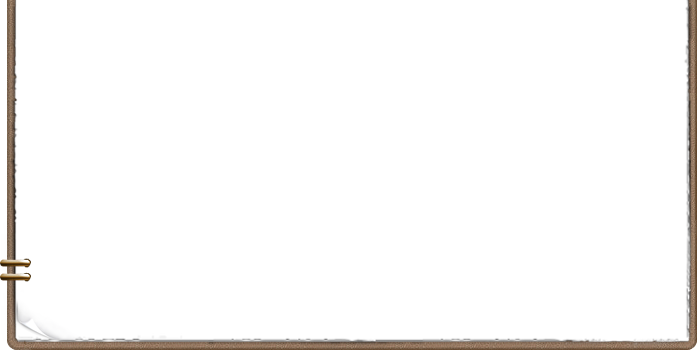
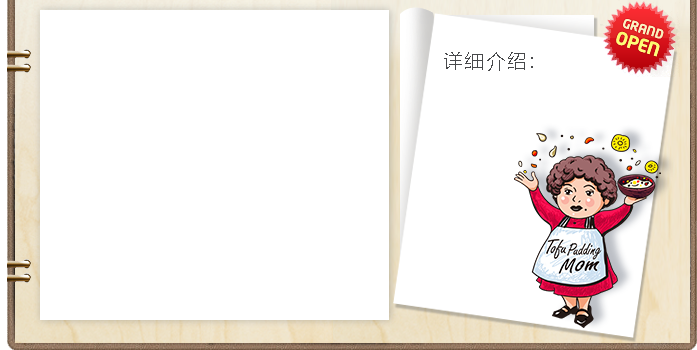
eidt shop page alert box style

Changed region(s): [[0.0, 0.0, 1.0, 1.0]]

diff --git a/statics/css/dhmm/style.css b/statics/css/dhmm/style.css
@@ -234,17 +234,17 @@ body.pop .school_apply div.bx_agreement .inner {height:138px;}
 .pop_layer_menu .cont {position:relative;z-index:1;width:617px;min-height:300px;padding:0px 7px;background:url("../images/bg_menu_top.png") no-repeat left top;_behavior: url(/library/js/iepngfix.htc);}
 .pop_layer_menu .cont .left {position:relative;z-index:1;width:205px;}
 .pop_layer_menu .cont .left .icon {position:absolute;z-index:2;left:16px;top:10px;}
-.pop_layer_menu .cont .left .goods {position:absolute;z-index:1;left:3px;top:0;width:205px;}
+.pop_layer_menu .cont .left .goods {position:absolute;z-index:1;left:3px;top:0;width:205px; padding-top:20px;}
 .pop_layer_menu .cont .left .new, .pop_layer_menu .cont .left .best {float:left;position:relative;z-index:2;width:47px;height:49px;text-indent:-100%;*text-indent:0;white-space:nowrap;overflow:hidden;font-size:0;line-height:0;text-shadow:none;color:transparent;}
 .pop_layer_menu .cont .left .new {background:url("../images/label_new_detail.png") left top no-repeat; _background:none; _filter:progid:DXImageTransform.Microsoft.AlphaImageLoader(src='../images/label_new_detail.png', sizingMethod='crop');}
 .pop_layer_menu .cont .left .best {background:url("../images/label_best_detail.png") left top no-repeat; _background:none; _filter:progid:DXImageTransform.Microsoft.AlphaImageLoader(src='../images/label_best_detail.png', sizingMethod='crop');}
-.pop_layer_menu .cont .right {position:relative;z-index:1;right:0;top:0;width:210px;padding-left:430px; padding-top:10px;}
+.pop_layer_menu .cont .right {position:relative;z-index:1;right:0;top:0;width:210px;padding-left:400px; padding-top:10px;}
 .pop_layer_menu .cont .right .h3 {height:28px; margin-bottom:9px; background:url("../images/line_menu_detail.gif") left bottom no-repeat}
 .pop_layer_menu .cont .right .h3 {position:relative;z-index:1;height:35px;background:url("../images/bg_menu_h3.gif") no-repeat left bottom;}
 .pop_layer_menu .cont .right .h3 h3 {font-family:Nanum Gothic;font-size:22px;font-weight:600;color:#190c00;}
 .pop_layer_menu .cont .right .h3 .hotniced {position:absolute;z-index:1;right:0;bottom:12px;}
 .pop_layer_menu .cont .right .h3 .hotniced a {margin-left:3px}
-.pop_layer_menu .cont .right .detail {margin:11px 0 22px 0;font-family:Nanum Gothic;font-size:12px;font-weight:600;line-height:18px;}/*m4one*/
+.pop_layer_menu .cont .right .detail {margin:75px 0 22px 0;font-family:Nanum Gothic;font-size:14px;font-weight:600;line-height:18px; text-indent: 2em;}/*m4one*/
 .pop_layer_menu .cont .right h4 {width:176px;height:24px;padding-left:5px;margin-bottom:8px;background:url("../images/h4_insert_angel.gif") no-repeat;font-family:Nanum Gothic;font-size:14px;font-weight:600;color:#ffffff;line-height:24px;}
 .pop_layer_menu .cont .right .insert {*zoom:1;padding-bottom:15px}
 .pop_layer_menu .cont .right .insert:after {content:"";clear:both;display:block;height:0;font-size:0}

diff --git a/phpcms/templates/dhmm/content/list_shop.html b/phpcms/templates/dhmm/content/list_shop.html
@@ -76,23 +76,20 @@
                             <div id="divMenuView">
 
                                 <div class="inner">
-                                    <div class="cont" style="padding: 13px 40px; min-height: 328px;">
+                                    <div class="cont" style="padding: 13px 40px; min-height: 343px;">
                                         <div class="left">
                                             <div class="goods">
-                                                <img class="img_big" src="" alt="" width="412" height="326">
+                                                <img class="img_big" src="" alt="" width="341" height="302">
                                             </div>
-                                            <div class="icon">
-                                                <span class="new">NEW</span>
-                                            </div>
+                                            <!--<div class="icon">-->
+                                                <!--<span class="new">NEW</span>-->
+                                            <!--</div>-->
                                         </div>
                                         <div class="right">
                                             <!-- 제품명 및 설명 -->
-                                            <div class="h3">
-                                                <h3></h3>
-                                            </div>
                                             <p class="detail"></p>
                                         </div>
-                                        <a href="#" onclick="goClose();return false;" class="pop_close">팝업닫기</a>
+                                        <a href="#" onclick="goClose();return false;" class="pop_close">关闭</a>
                                     </div>
                                 </div>
 
@@ -112,7 +109,7 @@
     }
 
     function goView(obj) {
-        $("#popMenuVeiw h3").html($(obj).find('p').html());
+//        $("#popMenuVeiw h3").html($(obj).find('p').html());
         $("#popMenuVeiw .img_big").attr('src', $(obj).find('img').attr('src'));
         $("#popMenuVeiw .detail").html($(obj).find('input').val());
         $("#popMenuVeiw").show();
